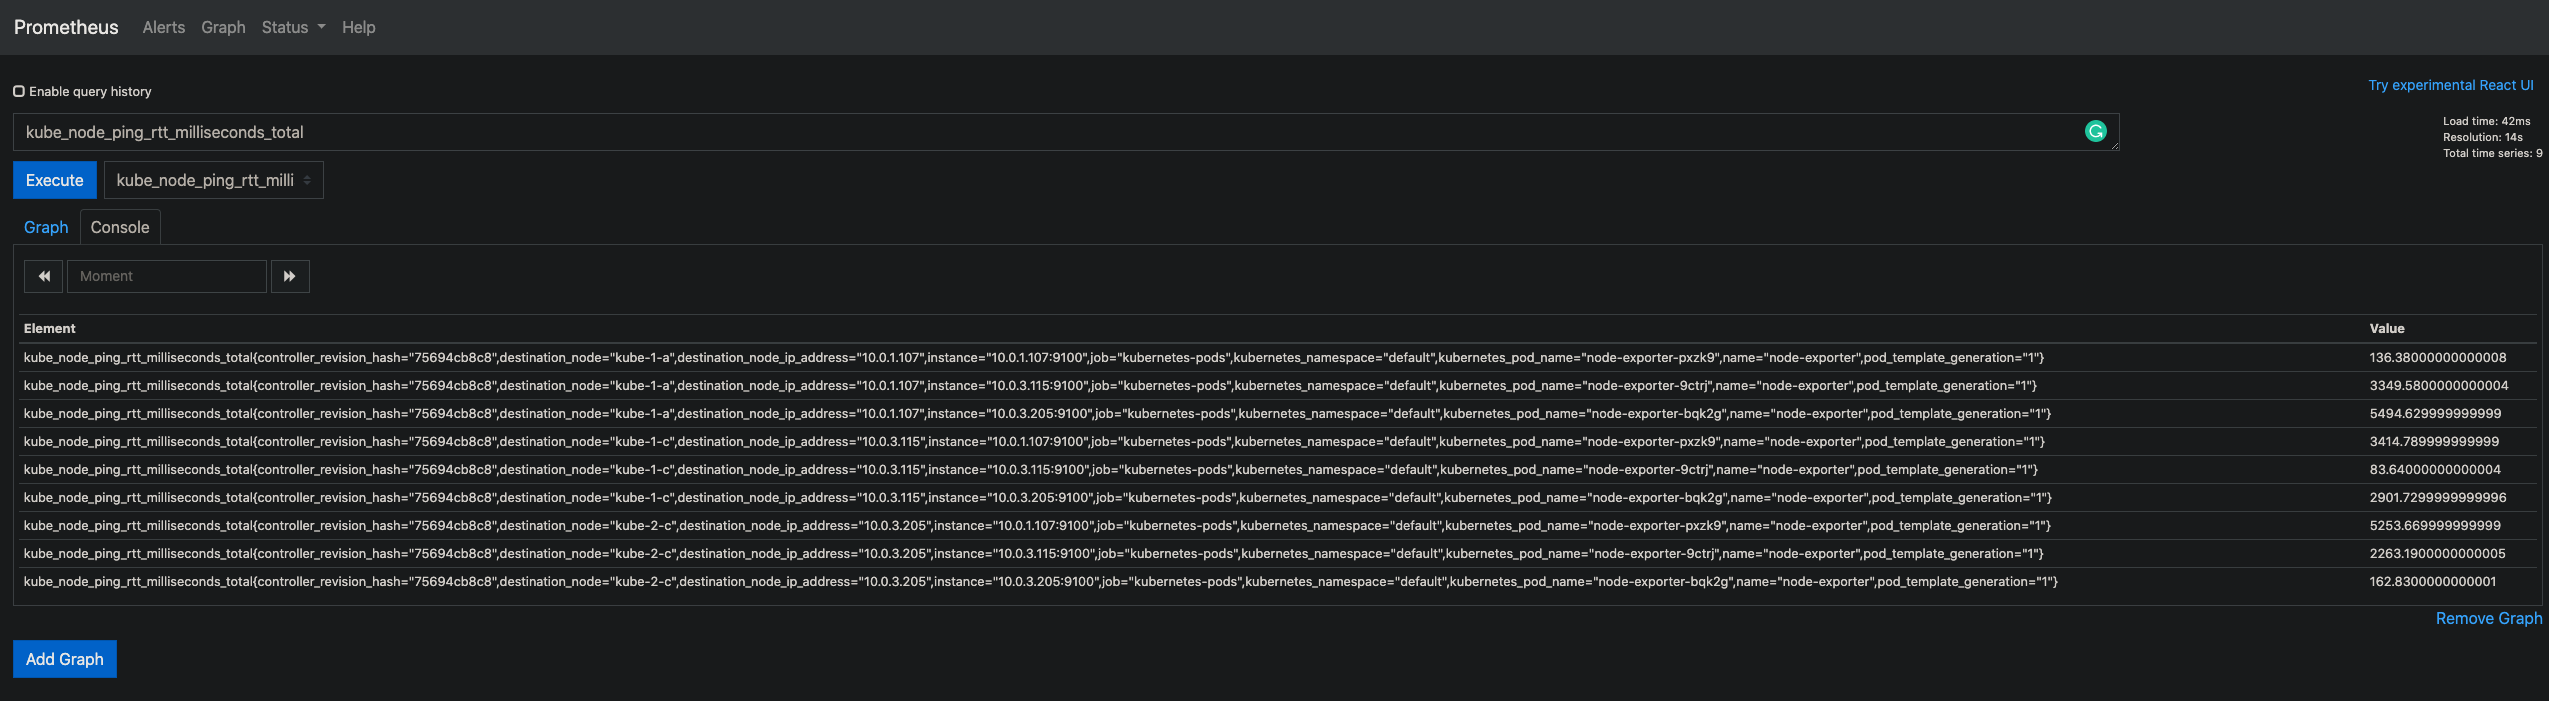
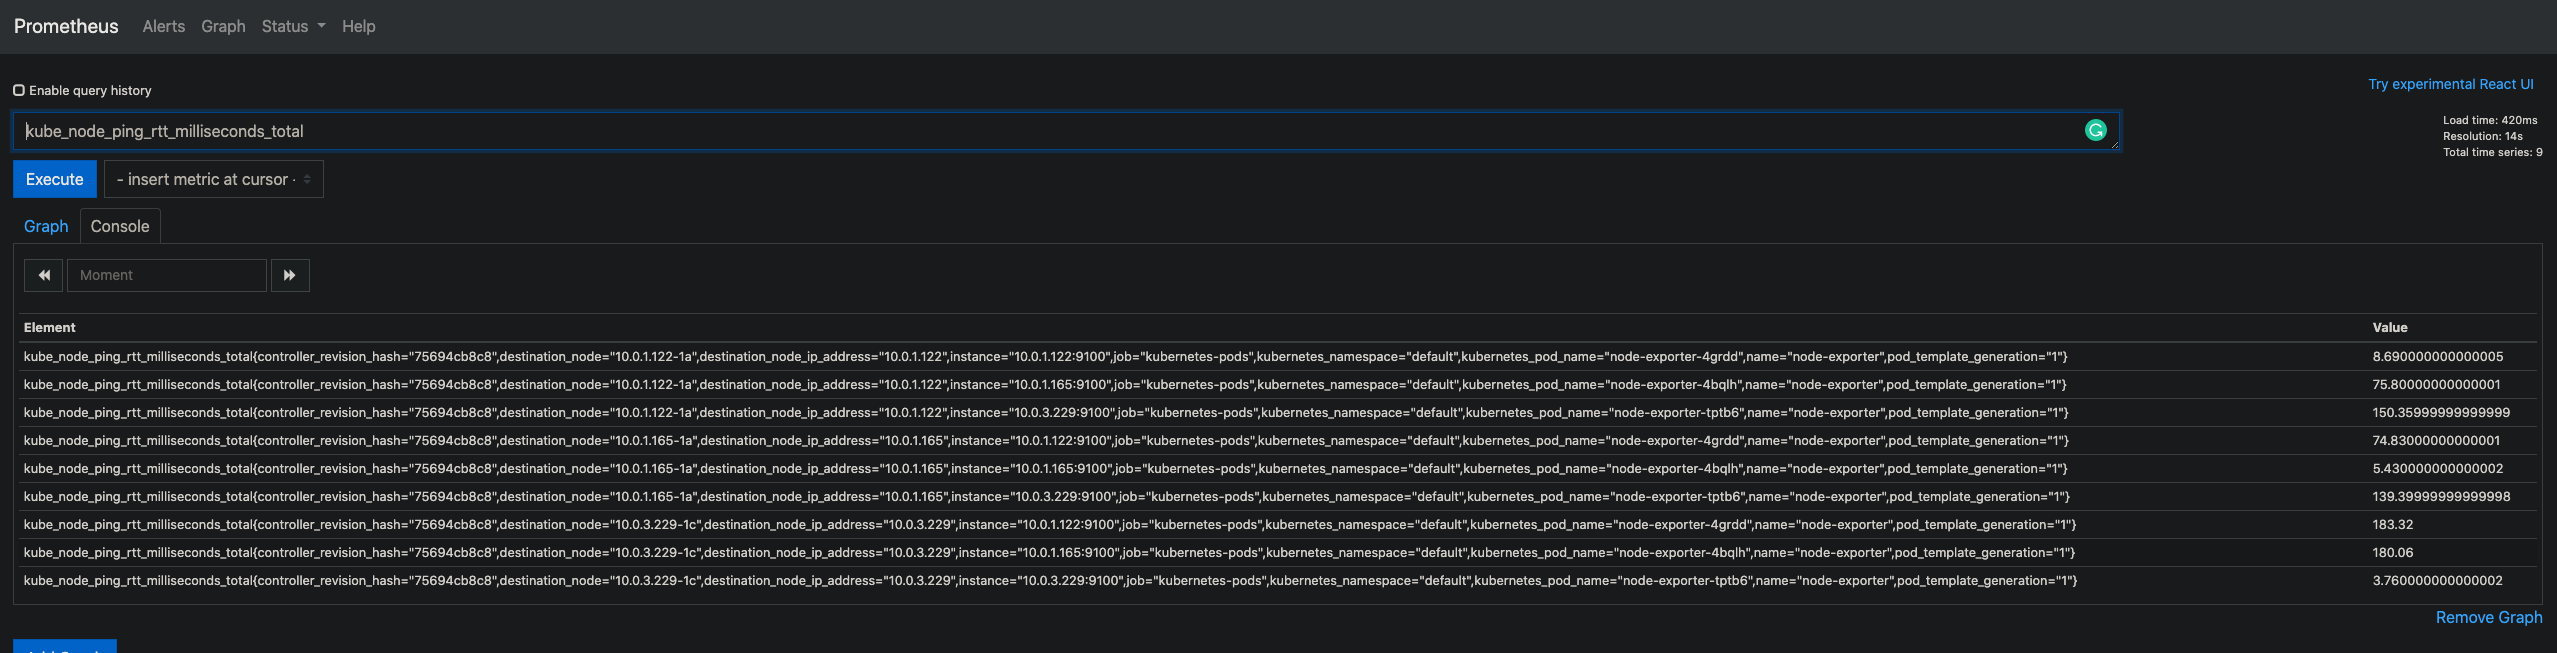
Fix latency between nodes. Updated node informations and README file and image png

diff --git a/README.md b/README.md
@@ -183,15 +183,15 @@ After prometheus scrap I could see all latency from all nodes to all nodes:
 http://localhost:9090/graph?g0.range_input=1h&g0.expr=kube_node_ping_rtt_milliseconds_total&g0.tab=1  
 
 Element	Value
-kube_node_ping_rtt_milliseconds_total{controller_revision_hash="75694cb8c8",destination_node="kube-1-a",destination_node_ip_address="10.0.1.107",instance="10.0.1.107:9100",job="kubernetes-pods",kubernetes_namespace="default",kubernetes_pod_name="node-exporter-pxzk9",name="node-exporter",pod_template_generation="1"}	136.38000000000008  
-kube_node_ping_rtt_milliseconds_total{controller_revision_hash="75694cb8c8",destination_node="kube-1-a",destination_node_ip_address="10.0.1.107",instance="10.0.3.115:9100",job="kubernetes-pods",kubernetes_namespace="default",kubernetes_pod_name="node-exporter-9ctrj",name="node-exporter",pod_template_generation="1"}	3349.5800000000004  
-kube_node_ping_rtt_milliseconds_total{controller_revision_hash="75694cb8c8",destination_node="kube-1-a",destination_node_ip_address="10.0.1.107",instance="10.0.3.205:9100",job="kubernetes-pods",kubernetes_namespace="default",kubernetes_pod_name="node-exporter-bqk2g",name="node-exporter",pod_template_generation="1"}	5494.629999999999  
-kube_node_ping_rtt_milliseconds_total{controller_revision_hash="75694cb8c8",destination_node="kube-1-c",destination_node_ip_address="10.0.3.115",instance="10.0.1.107:9100",job="kubernetes-pods",kubernetes_namespace="default",kubernetes_pod_name="node-exporter-pxzk9",name="node-exporter",pod_template_generation="1"}	3414.789999999999  
-kube_node_ping_rtt_milliseconds_total{controller_revision_hash="75694cb8c8",destination_node="kube-1-c",destination_node_ip_address="10.0.3.115",instance="10.0.3.115:9100",job="kubernetes-pods",kubernetes_namespace="default",kubernetes_pod_name="node-exporter-9ctrj",name="node-exporter",pod_template_generation="1"}	83.64000000000004  
-kube_node_ping_rtt_milliseconds_total{controller_revision_hash="75694cb8c8",destination_node="kube-1-c",destination_node_ip_address="10.0.3.115",instance="10.0.3.205:9100",job="kubernetes-pods",kubernetes_namespace="default",kubernetes_pod_name="node-exporter-bqk2g",name="node-exporter",pod_template_generation="1"}	2901.7299999999996  
-kube_node_ping_rtt_milliseconds_total{controller_revision_hash="75694cb8c8",destination_node="kube-2-c",destination_node_ip_address="10.0.3.205",instance="10.0.1.107:9100",job="kubernetes-pods",kubernetes_namespace="default",kubernetes_pod_name="node-exporter-pxzk9",name="node-exporter",pod_template_generation="1"}	5253.669999999999  
-kube_node_ping_rtt_milliseconds_total{controller_revision_hash="75694cb8c8",destination_node="kube-2-c",destination_node_ip_address="10.0.3.205",instance="10.0.3.115:9100",job="kubernetes-pods",kubernetes_namespace="default",kubernetes_pod_name="node-exporter-9ctrj",name="node-exporter",pod_template_generation="1"}	2263.1900000000005
-kube_node_ping_rtt_milliseconds_total{controller_revision_hash="75694cb8c8",destination_node="kube-2-c",destination_node_ip_address="10.0.3.205",instance="10.0.3.205:9100",job="kubernetes-pods",kubernetes_namespace="default",kubernetes_pod_name="node-exporter-bqk2g",name="node-exporter",pod_template_generation="1"}	162.8300000000001  
+kube_node_ping_rtt_milliseconds_total{controller_revision_hash="75694cb8c8",destination_node="10.0.1.122-1a",destination_node_ip_address="10.0.1.122",instance="10.0.1.122:9100",job="kubernetes-pods",kubernetes_namespace="default",kubernetes_pod_name="node-exporter-4grdd",name="node-exporter",pod_template_generation="1"}	8.690000000000005
+kube_node_ping_rtt_milliseconds_total{controller_revision_hash="75694cb8c8",destination_node="10.0.1.122-1a",destination_node_ip_address="10.0.1.122",instance="10.0.1.165:9100",job="kubernetes-pods",kubernetes_namespace="default",kubernetes_pod_name="node-exporter-4bqlh",name="node-exporter",pod_template_generation="1"}	75.80000000000001
+kube_node_ping_rtt_milliseconds_total{controller_revision_hash="75694cb8c8",destination_node="10.0.1.122-1a",destination_node_ip_address="10.0.1.122",instance="10.0.3.229:9100",job="kubernetes-pods",kubernetes_namespace="default",kubernetes_pod_name="node-exporter-tptb6",name="node-exporter",pod_template_generation="1"}	150.35999999999999
+kube_node_ping_rtt_milliseconds_total{controller_revision_hash="75694cb8c8",destination_node="10.0.1.165-1a",destination_node_ip_address="10.0.1.165",instance="10.0.1.122:9100",job="kubernetes-pods",kubernetes_namespace="default",kubernetes_pod_name="node-exporter-4grdd",name="node-exporter",pod_template_generation="1"}	74.83000000000001
+kube_node_ping_rtt_milliseconds_total{controller_revision_hash="75694cb8c8",destination_node="10.0.1.165-1a",destination_node_ip_address="10.0.1.165",instance="10.0.1.165:9100",job="kubernetes-pods",kubernetes_namespace="default",kubernetes_pod_name="node-exporter-4bqlh",name="node-exporter",pod_template_generation="1"}	5.430000000000002
+kube_node_ping_rtt_milliseconds_total{controller_revision_hash="75694cb8c8",destination_node="10.0.1.165-1a",destination_node_ip_address="10.0.1.165",instance="10.0.3.229:9100",job="kubernetes-pods",kubernetes_namespace="default",kubernetes_pod_name="node-exporter-tptb6",name="node-exporter",pod_template_generation="1"}	139.39999999999998
+kube_node_ping_rtt_milliseconds_total{controller_revision_hash="75694cb8c8",destination_node="10.0.3.229-1c",destination_node_ip_address="10.0.3.229",instance="10.0.1.122:9100",job="kubernetes-pods",kubernetes_namespace="default",kubernetes_pod_name="node-exporter-4grdd",name="node-exporter",pod_template_generation="1"}	183.32
+kube_node_ping_rtt_milliseconds_total{controller_revision_hash="75694cb8c8",destination_node="10.0.3.229-1c",destination_node_ip_address="10.0.3.229",instance="10.0.1.165:9100",job="kubernetes-pods",kubernetes_namespace="default",kubernetes_pod_name="node-exporter-4bqlh",name="node-exporter",pod_template_generation="1"}	180.06
+kube_node_ping_rtt_milliseconds_total{controller_revision_hash="75694cb8c8",destination_node="10.0.3.229-1c",destination_node_ip_address="10.0.3.229",instance="10.0.3.229:9100",job="kubernetes-pods",kubernetes_namespace="default",kubernetes_pod_name="node-exporter-tptb6",name="node-exporter",pod_template_generation="1"}	3.760000000000002  
 ```
 
 Its possible to see that locally the latency is so low and to the other onde on the same zone has a medium latency. But the latency to the vm on the other zone is huge!  
